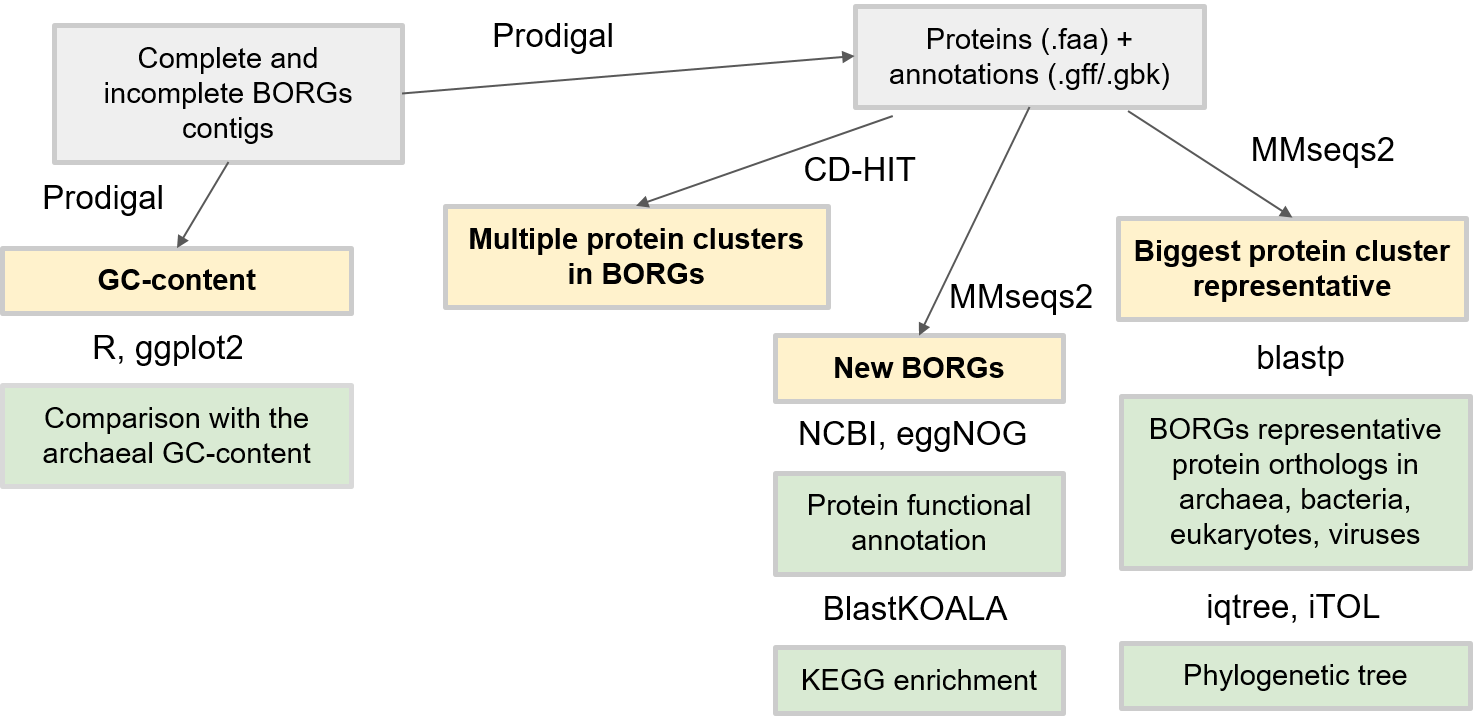
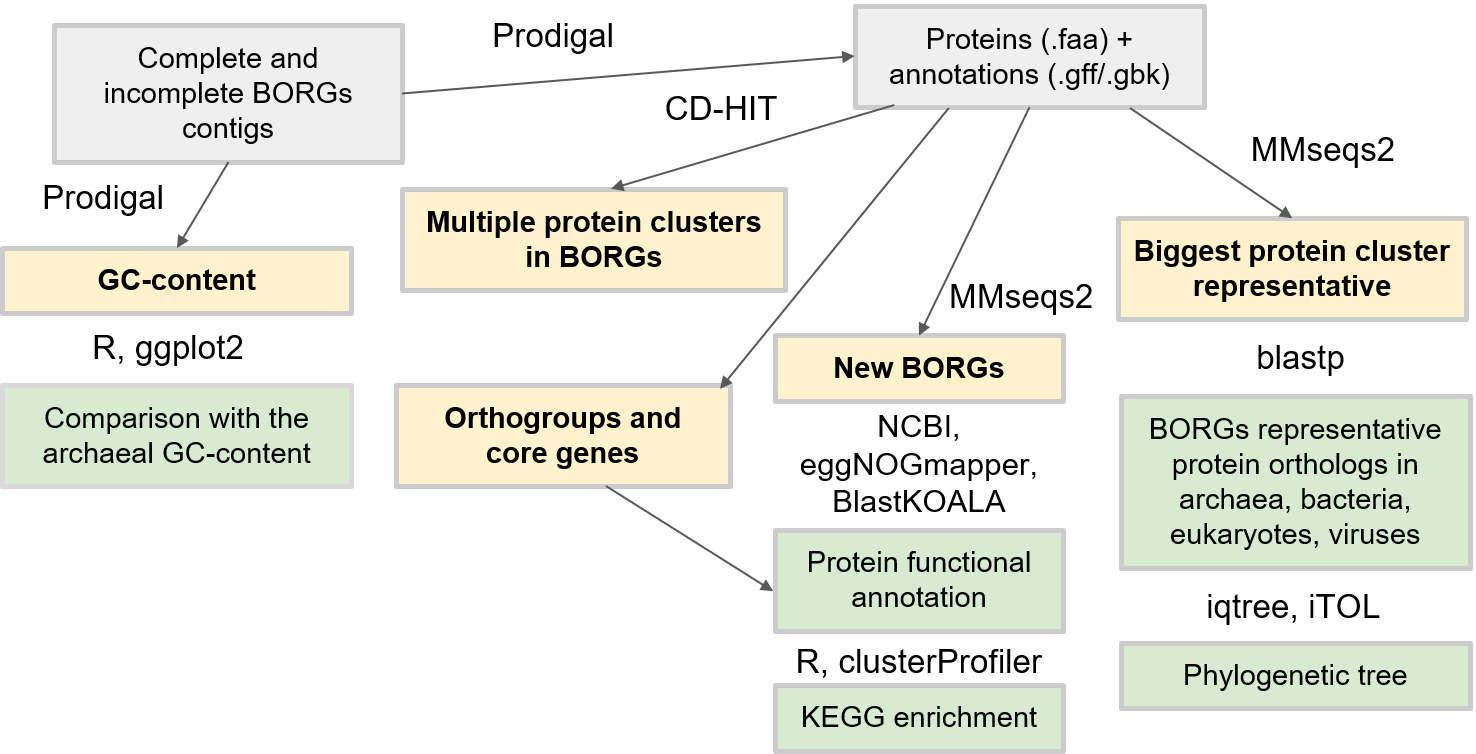
edited workflow

diff --git a/README.md b/README.md
@@ -60,6 +60,10 @@ bioRxiv (2021). https://doi.org/10.1101/2021.07.10.451761
 
 ggKbase: https://ggkbase.berkeley.edu/
 
+Database resources of the national center for biotechnology information.
+Sayers, Eric W., Tanya Barrett, Dennis A. Benson, Evan Bolton, Stephen H. Bryant, Kathi Canese, Vyacheslav Chetvernin et al.
+Nucleic acids research 39, no. suppl_1 (2010): D38-D51. DOI: 10.1093/nar/gkab1112
+
 MUSCLE: multiple sequence alignment with high accuracy and high throughput. 
 Edgar, R.C., 2004. 
 Nucleic acids research, 32(5), pp.1792-1797. doi: 10.1093/nar/gkh340
